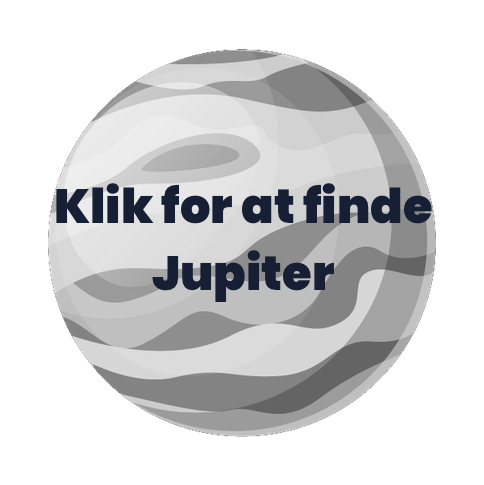
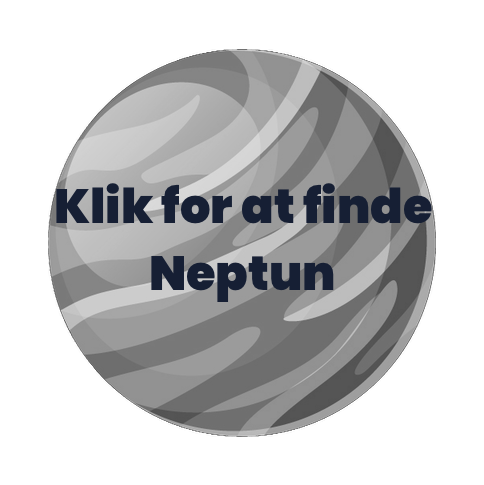
change wrong image

diff --git a/dist/brorfelde/main.js b/dist/brorfelde/main.js
@@ -859,9 +859,11 @@ class PlanethuntInventoryComponent {
             // if planetsVisited > 0, get timeStarted and current time. Subtract timeStarted from current time
             // to get total elapsed time.
             if (this.planetsVisited > 0) {
+                console.log('planets actually visited 1: ', this.planetsVisited);
                 var currentTime = new Date().getTime() / 1000;
                 this.timeStarted = window.localStorage.getItem('timeStarted');
                 this.timeElapsed = currentTime - this.timeStarted;
+                this.startTime(this.timeElapsed);
                 if (this.planetsVisited === 10) {
                     console.log('more than ten planets visited');
                     // if planetsVisited > 10, subtract timeStarted from current time and save the result to user on mongoDB atlas
@@ -874,13 +876,14 @@ class PlanethuntInventoryComponent {
                     console.log('total points: ', this.totalpoints);
                     this.userService.updateTimeAndTotalScore(this.userId, this.timeElapsed, this.totalpoints);
                 }
-                else {
-                    console.log('ZERO planets visited');
-                    // if planetsVisited === 0, set timer to zero, without counting
-                    this.timeStarted = new Date().getTime() / 1000;
-                    window.localStorage.setItem('timeStarted', this.timeStarted);
-                    this.timeToDisplay = new Date(0).toISOString().substr(11, 8);
-                }
+            }
+            else {
+                console.log('planets actually visited 2: ', this.planetsVisited);
+                console.log('ZERO planets visited');
+                // if planetsVisited === 0, set timer to zero, without counting
+                this.timeStarted = new Date().getTime() / 1000;
+                window.localStorage.setItem('timeStarted', this.timeStarted);
+                this.timeToDisplay = new Date(0).toISOString().substr(11, 8);
             }
         });
     }
@@ -908,7 +911,7 @@ class PlanethuntInventoryComponent {
         var tempNumVisited = 0;
         this.planetArray.forEach((planet) => {
             if (planet.visited === true) {
-                console.log(planet.visited);
+                console.log('planet visited: ', planet);
                 tempNumVisited = tempNumVisited + 1;
             }
             this.totalpoints = this.totalpoints + planet.points;

diff --git a/src/app/planethunt-tutorial/planethunt-tutorial.component.ts b/src/app/planethunt-tutorial/planethunt-tutorial.component.ts
@@ -9,7 +9,6 @@ export class PlanetHuntTutorialComponent implements OnInit {
 
   position = 1;
 
-
   constructor() { }
 
   ngOnInit() { }
@@ -35,10 +34,10 @@ export class PlanetHuntTutorialComponent implements OnInit {
   }
 
   // Scroll to specific HTML element on page
-  scroll(id: number) {
+  /*scroll(id: number) {
     const elId = String(id);
     const el: any = document.getElementById(elId);
     el.scrollIntoView({behavior: "smooth"});
-  }
+  }*/
 
 }

diff --git a/src/app/planethunt-inventory/planethunt-inventory.component.ts b/src/app/planethunt-inventory/planethunt-inventory.component.ts
@@ -83,11 +83,11 @@ export class PlanethuntInventoryComponent implements OnInit {
 
   // When following a planet's Hololink, check if this is the first planet to be visited
   // If so, set timestamp in localstorage
-  visitPlanet() {
+  /*visitPlanet() {
     if (this.planetsVisited === 0) {
       this.startTime(0);
     }
-  }
+  }*/
 
   // set the timer being displayed, incrementing every second in real time
   startTime(seconds: number) {

diff --git a/src/app/services/user.service.ts b/src/app/services/user.service.ts
@@ -26,7 +26,6 @@ export class UserService {
   }
 
   updateTimeAndTotalScore(userId: string, timeTaken: number, totalPoints: number) {
-    console.log('inside updateTimeAndTotalScore');
     return this.http
     .patch<any>(`${this.baseUrl}/treasurehunt/updateTimeAndTotalScore`, {
       userId: userId,
